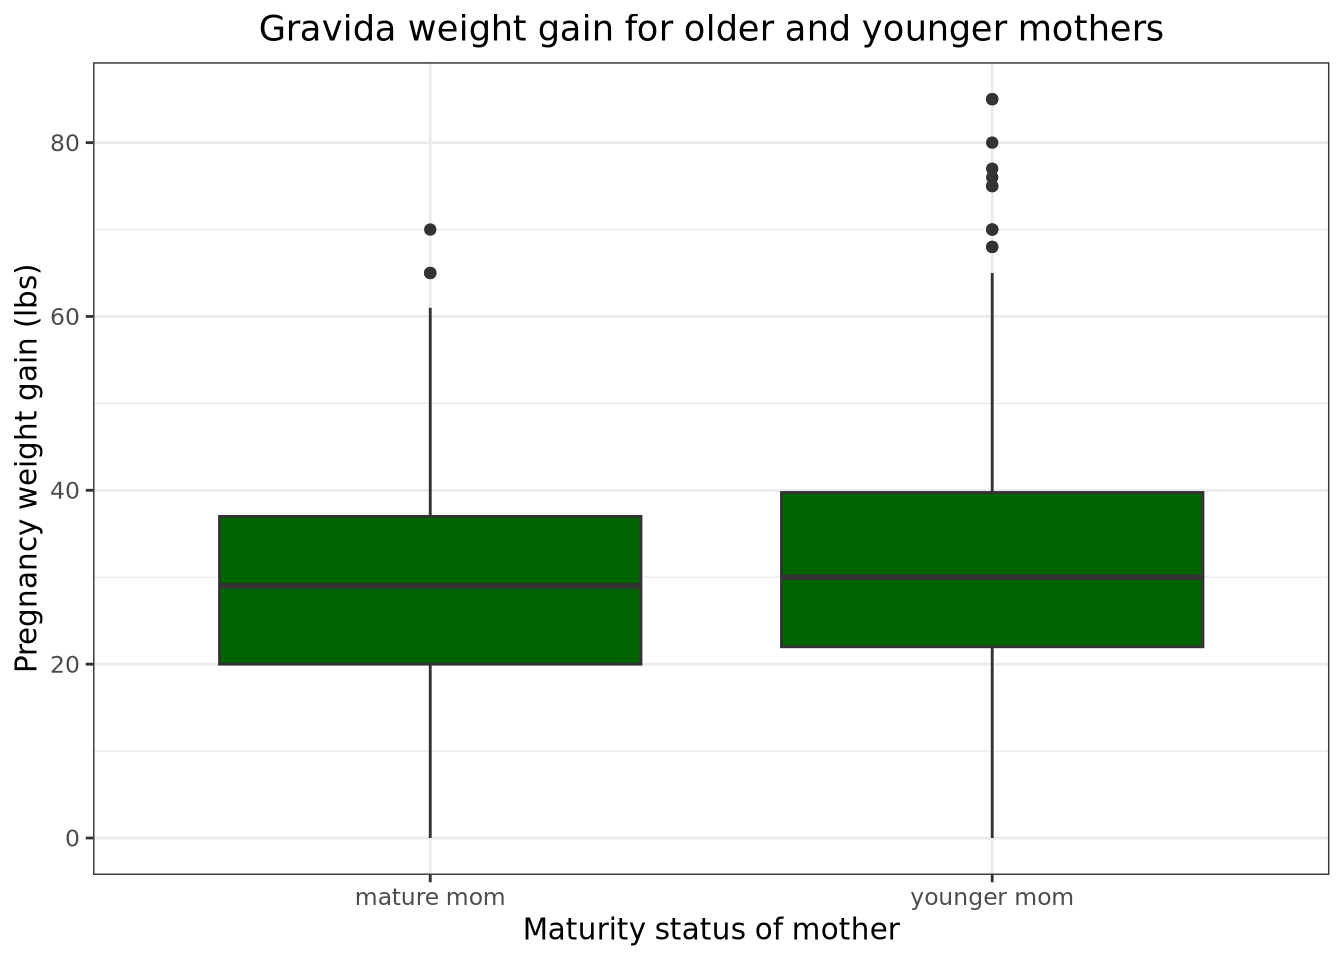
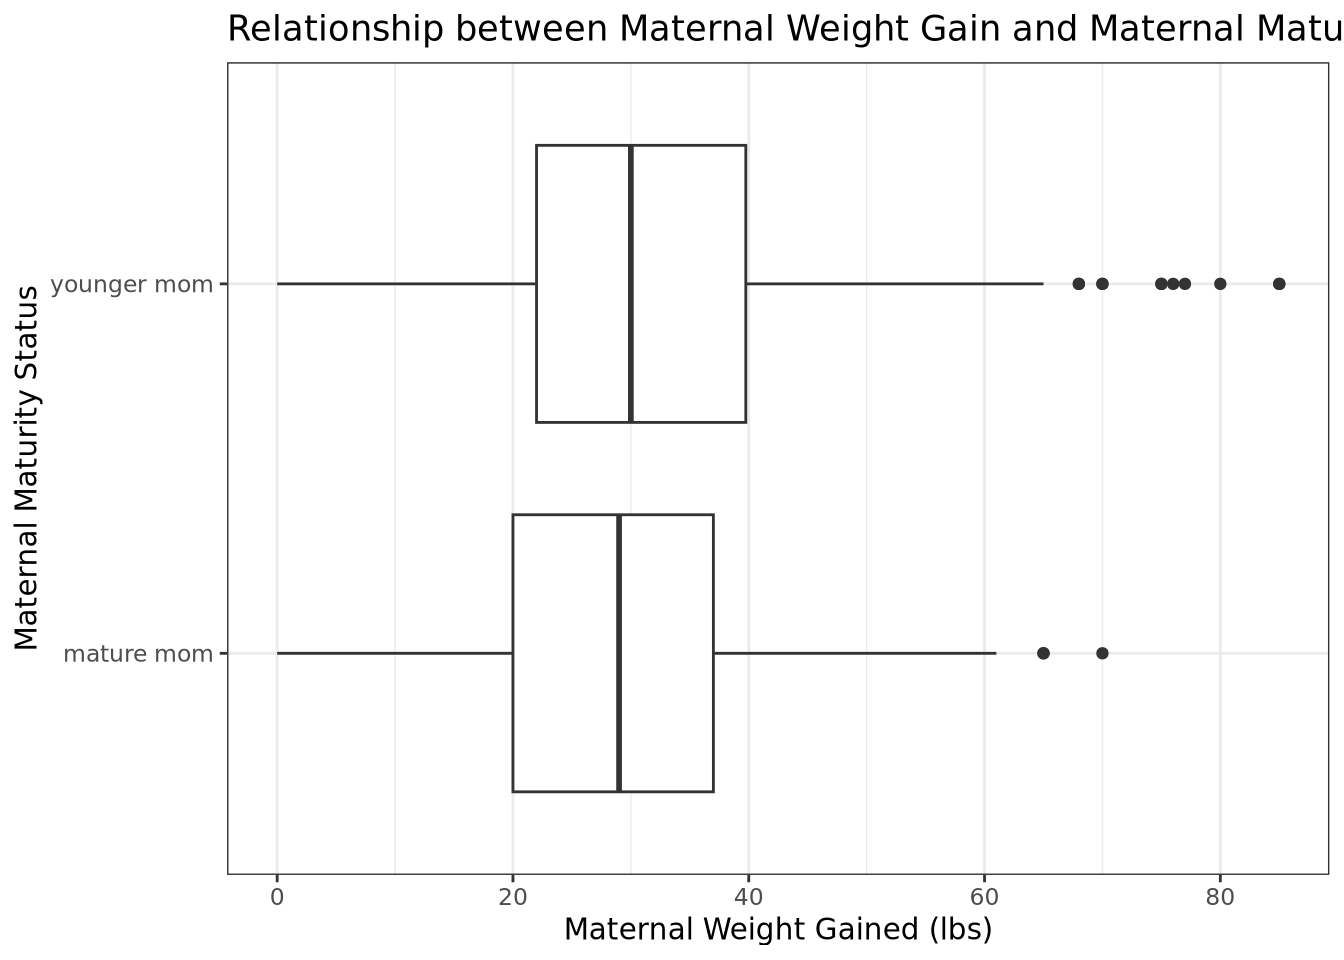
Answered Question #9 and created a boxplot.

diff --git a/PS02_source.html b/PS02_source.html
@@ -98,7 +98,7 @@ pre > code.sourceCode > span > a:first-child::before { text-decoration: underlin
     <div>
     <div class="quarto-title-meta-heading">Published</div>
     <div class="quarto-title-meta-contents">
-      <p class="date">Last modified on August 31, 2023 10:43:04 Eastern Daylight Time</p>
+      <p class="date">Last modified on August 31, 2023 11:03:50 Eastern Daylight Time</p>
     </div>
   </div>
   
@@ -849,10 +849,19 @@ Problem 9 Answers
 <div id="callout-31" class="callout-31-contents callout-collapse collapse show">
 <div class="callout-body-container callout-body">
 <div class="cell" data-layout-align="center">
-<div class="sourceCode cell-code" id="cb20"><pre class="sourceCode r code-with-copy"><code class="sourceCode r"><span id="cb20-1"><a href="#cb20-1" aria-hidden="true" tabindex="-1"></a><span class="co"># Type your code and comments inside the code chunk</span></span></code><button title="Copy to Clipboard" class="code-copy-button"><i class="bi"></i></button></pre></div>
+<div class="sourceCode cell-code" id="cb20"><pre class="sourceCode r code-with-copy"><code class="sourceCode r"><span id="cb20-1"><a href="#cb20-1" aria-hidden="true" tabindex="-1"></a><span class="fu">ggplot</span>(<span class="at">data =</span> nc, <span class="fu">aes</span>(<span class="at">x =</span> gained, <span class="at">y =</span> mature)) <span class="sc">+</span> <span class="fu">labs</span>(<span class="at">x =</span> <span class="st">"Maternal Weight Gained (lbs)"</span>, <span class="at">y =</span> <span class="st">"Maternal Maturity Status"</span>, <span class="at">title =</span> <span class="st">"Relationship between Maternal Weight Gain and Maternal Maturity"</span>) <span class="sc">+</span></span>
+<span id="cb20-2"><a href="#cb20-2" aria-hidden="true" tabindex="-1"></a>  <span class="fu">geom_boxplot</span>() <span class="sc">+</span> </span>
+<span id="cb20-3"><a href="#cb20-3" aria-hidden="true" tabindex="-1"></a>  <span class="fu">theme_bw</span>()</span></code><button title="Copy to Clipboard" class="code-copy-button"><i class="bi"></i></button></pre></div>
+<div class="cell-output-display">
+<div class="quarto-figure quarto-figure-center">
+<figure class="figure">
+<p><img src="PS02_source_files/figure-html/unnamed-chunk-20-1.png" class="img-fluid figure-img" width="672"></p>
+</figure>
+</div>
+</div>
 </div>
 <ul>
-<li>Delete this and put your text answer here.</li>
+<li>The median weight gain for mature mothers is higher than the median weight gain for younger mothers.</li>
 </ul>
 </div>
 </div>
